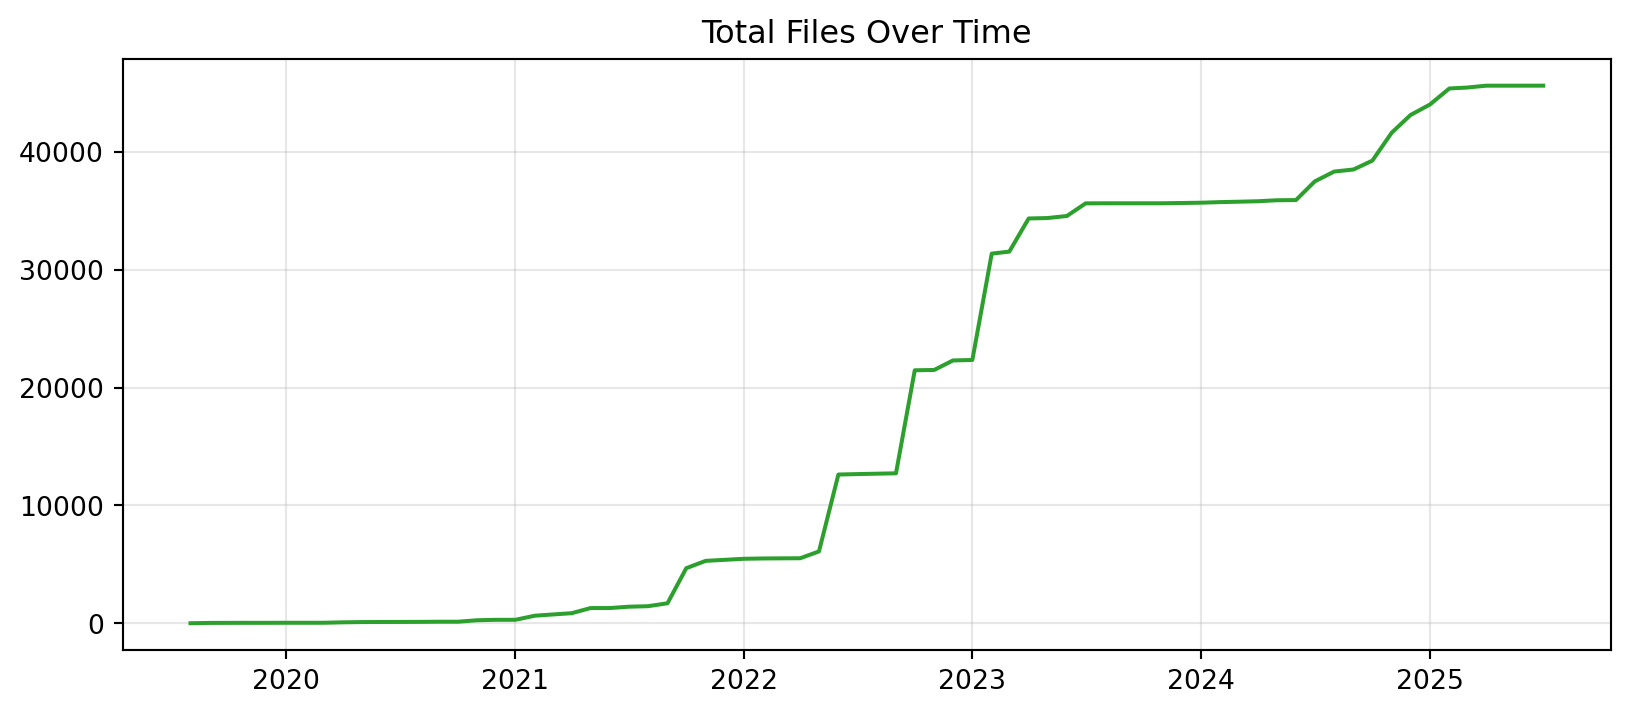
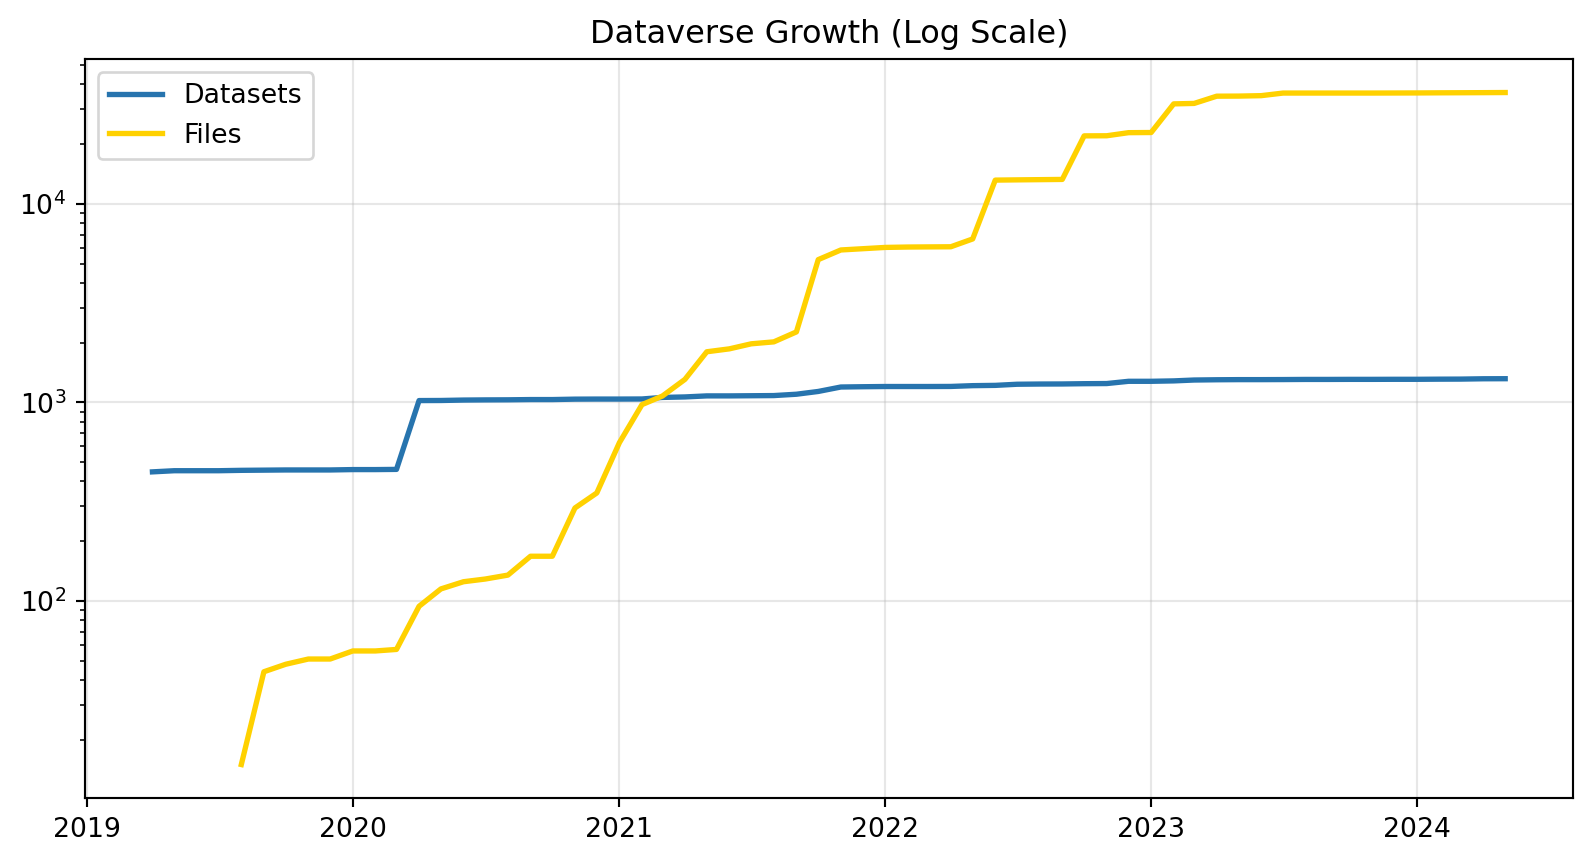
deploy: e3e4f6657218084916f3c9b88d9d82145285861e

diff --git a/infrastructure.html b/infrastructure.html
@@ -307,11 +307,13 @@ ul.task-list li input[type="checkbox"] {
   </ul></li>
   <li><a href="#ucla-dataverse-usage" id="toc-ucla-dataverse-usage" class="nav-link" data-scroll-target="#ucla-dataverse-usage">UCLA Dataverse Usage</a>
   <ul class="collapse">
-  <li><a href="#repository-growth" id="toc-repository-growth" class="nav-link" data-scroll-target="#repository-growth">Repository Growth</a></li>
+  <li><a href="#repository-growth-cumulative" id="toc-repository-growth-cumulative" class="nav-link" data-scroll-target="#repository-growth-cumulative">Repository Growth (Cumulative)</a></li>
+  <li><a href="#monthly-activity" id="toc-monthly-activity" class="nav-link" data-scroll-target="#monthly-activity">Monthly Activity</a></li>
   </ul></li>
   <li><a href="#s3-bucket-storage" id="toc-s3-bucket-storage" class="nav-link" data-scroll-target="#s3-bucket-storage">S3 Bucket Storage</a>
   <ul class="collapse">
   <li><a href="#current-bucket-sizes" id="toc-current-bucket-sizes" class="nav-link" data-scroll-target="#current-bucket-sizes">Current Bucket Sizes</a></li>
+  <li><a href="#potree-storage-growth-180-days" id="toc-potree-storage-growth-180-days" class="nav-link" data-scroll-target="#potree-storage-growth-180-days">Potree Storage Growth (180 Days)</a></li>
   </ul></li>
   </ul>
 </nav>
@@ -343,7 +345,7 @@ ul.task-list li input[type="checkbox"] {
 <h1>AWS Cloud Costs</h1>
 <section id="monthly-departmental-charges-ledger" class="level2">
 <h2 class="anchored" data-anchor-id="monthly-departmental-charges-ledger">Monthly Departmental Charges (Ledger)</h2>
-<div id="d4d9515a" class="cell" data-results="asis" data-execution_count="2">
+<div id="615b971c" class="cell" data-results="asis" data-execution_count="2">
 <div class="cell-output cell-output-display cell-output-markdown">
 <table class="caption-top table table-sm table-striped small">
 <thead>
@@ -380,7 +382,7 @@ ul.task-list li input[type="checkbox"] {
 </section>
 <section id="monthly-trends" class="level2">
 <h2 class="anchored" data-anchor-id="monthly-trends">Monthly Trends</h2>
-<div id="fc285813" class="cell" data-execution_count="3">
+<div id="9d0abc69" class="cell" data-execution_count="3">
 <div class="cell-output cell-output-display">
 <div>
 <figure class="figure">
@@ -393,13 +395,25 @@ ul.task-list li input[type="checkbox"] {
 </section>
 <section id="ucla-dataverse-usage" class="level1">
 <h1>UCLA Dataverse Usage</h1>
-<section id="repository-growth" class="level2">
-<h2 class="anchored" data-anchor-id="repository-growth">Repository Growth</h2>
-<div id="27be3d82" class="cell" data-execution_count="4">
+<section id="repository-growth-cumulative" class="level2">
+<h2 class="anchored" data-anchor-id="repository-growth-cumulative">Repository Growth (Cumulative)</h2>
+<div id="35267c14" class="cell" data-execution_count="4">
 <div class="cell-output cell-output-display">
 <div>
 <figure class="figure">
-<p><img src="infrastructure_files/figure-html/cell-5-output-1.png" width="815" height="357" class="figure-img"></p>
+<p><img src="infrastructure_files/figure-html/cell-5-output-1.png" width="796" height="431" class="figure-img"></p>
+</figure>
+</div>
+</div>
+</div>
+</section>
+<section id="monthly-activity" class="level2">
+<h2 class="anchored" data-anchor-id="monthly-activity">Monthly Activity</h2>
+<div id="f69fc593" class="cell" data-execution_count="5">
+<div class="cell-output cell-output-display">
+<div>
+<figure class="figure">
+<p><img src="infrastructure_files/figure-html/cell-6-output-1.png" width="948" height="469" class="figure-img"></p>
 </figure>
 </div>
 </div>
@@ -410,7 +424,7 @@ ul.task-list li input[type="checkbox"] {
 <h1>S3 Bucket Storage</h1>
 <section id="current-bucket-sizes" class="level2">
 <h2 class="anchored" data-anchor-id="current-bucket-sizes">Current Bucket Sizes</h2>
-<div id="abeb0c53" class="cell" data-results="asis" data-execution_count="5">
+<div id="996cca06" class="cell" data-results="asis" data-execution_count="6">
 <div class="cell-output cell-output-display cell-output-markdown">
 <table class="caption-top table table-sm table-striped small">
 <thead>
@@ -424,95 +438,107 @@ ul.task-list li input[type="checkbox"] {
 <tr class="odd">
 <td>potree-test2</td>
 <td>11038.14 GB</td>
-<td>2026-02-02</td>
+<td>2026-02-03</td>
 </tr>
 <tr class="even">
 <td>dataverse-files-replicated</td>
 <td>3752.27 GB</td>
-<td>2026-02-02</td>
+<td>2026-02-03</td>
 </tr>
 <tr class="odd">
 <td>dataverse-files</td>
 <td>3752.22 GB</td>
-<td>2026-02-02</td>
+<td>2026-02-03</td>
 </tr>
 <tr class="even">
 <td>dataverse-files-direct-upload</td>
 <td>544.81 GB</td>
-<td>2026-02-02</td>
+<td>2026-02-03</td>
 </tr>
 <tr class="odd">
 <td>dataverse-files-replicated-direct-upload</td>
 <td>542.64 GB</td>
-<td>2026-02-02</td>
+<td>2026-02-03</td>
 </tr>
 <tr class="even">
 <td>dataverse-test-oregon</td>
 <td>130.68 GB</td>
-<td>2026-02-02</td>
+<td>2026-02-03</td>
 </tr>
 <tr class="odd">
 <td>test-dataverse-files2</td>
 <td>19.53 GB</td>
-<td>2026-02-02</td>
+<td>2026-02-03</td>
 </tr>
 <tr class="even">
 <td>dataverse-test-lariac-direct</td>
 <td>12.10 GB</td>
-<td>2026-02-02</td>
+<td>2026-02-03</td>
 </tr>
 <tr class="odd">
 <td>dataverse-lariac-direct</td>
 <td>11.96 GB</td>
-<td>2026-02-02</td>
+<td>2026-02-03</td>
 </tr>
 <tr class="even">
 <td>dataverse-test-lariac</td>
 <td>9.64 GB</td>
-<td>2026-02-02</td>
+<td>2026-02-03</td>
 </tr>
 <tr class="odd">
 <td>lariac-backup</td>
 <td>3.34 GB</td>
-<td>2026-02-02</td>
+<td>2026-02-03</td>
 </tr>
 <tr class="even">
 <td>dscbbillinginfo</td>
 <td>1.02 GB</td>
-<td>2026-02-02</td>
+<td>2026-02-03</td>
 </tr>
 <tr class="odd">
 <td>dataverse-lariac</td>
 <td>0.24 GB</td>
-<td>2026-02-02</td>
+<td>2026-02-03</td>
 </tr>
 <tr class="even">
 <td>ssda-files</td>
 <td>0.12 GB</td>
-<td>2026-02-02</td>
+<td>2026-02-03</td>
 </tr>
 <tr class="odd">
 <td>ssda-files-replicated</td>
 <td>0.12 GB</td>
-<td>2026-02-02</td>
+<td>2026-02-03</td>
 </tr>
 <tr class="even">
 <td>test-dataverse-jmj</td>
 <td>0.00 GB</td>
-<td>2026-02-02</td>
+<td>2026-02-03</td>
 </tr>
 <tr class="odd">
 <td>ucla-library-terraform-state</td>
 <td>0.00 GB</td>
-<td>2026-02-02</td>
+<td>2026-02-03</td>
 </tr>
 <tr class="even">
 <td>bulk-policy-migration-221761179339</td>
 <td>0.00 GB</td>
-<td>2026-02-02</td>
+<td>2026-02-03</td>
 </tr>
 </tbody>
 </table>
+</div>
+</div>
+</section>
+<section id="potree-storage-growth-180-days" class="level2">
+<h2 class="anchored" data-anchor-id="potree-storage-growth-180-days">Potree Storage Growth (180 Days)</h2>
+<div id="98298ab6" class="cell" data-execution_count="7">
+<div class="cell-output cell-output-display">
+<div>
+<figure class="figure">
+<p><img src="infrastructure_files/figure-html/cell-8-output-1.png" width="833" height="431" class="figure-img"></p>
+</figure>
+</div>
 </div>
 </div>
 

diff --git a/dsc_report2024.html b/dsc_report2024.html
@@ -7,7 +7,7 @@
 <meta name="viewport" content="width=device-width, initial-scale=1.0, user-scalable=yes">
 
 <meta name="author" content="Tim Dennis">
-<meta name="dcterms.date" content="2026-02-05">
+<meta name="dcterms.date" content="2026-02-06">
 
 <title>DSC Report: 2024 – DSC Statistics Dashboard</title>
 <style>
@@ -384,7 +384,7 @@ pre > code.sourceCode > span > a:first-child::before { text-decoration: underlin
     <div>
     <div class="quarto-title-meta-heading">Published</div>
     <div class="quarto-title-meta-contents">
-      <p class="date">February 5, 2026</p>
+      <p class="date">February 6, 2026</p>
     </div>
   </div>
   

diff --git a/index.html b/index.html
@@ -360,7 +360,7 @@ ul.task-list li input[type="checkbox"] {
 </div>
 </div>
 <hr>
-<p><strong>Last Updated:</strong> February 05, 2026</p>
+<p><strong>Last Updated:</strong> February 06, 2026</p>
 
 
 </section>
